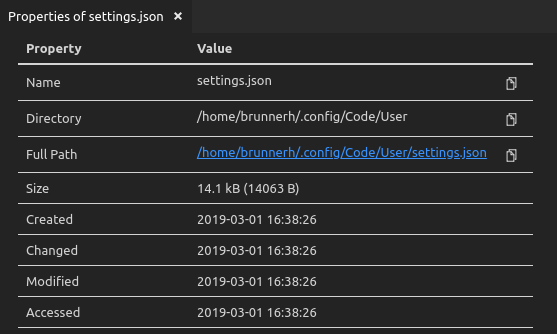
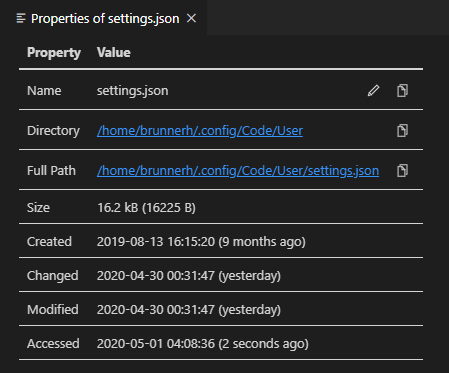
v.0.4.0
- Added:
  - Display relative time after timestamps.
  - Option for turning off the relative time display (`disableRelativeTimestamps`).
  - Directory path link which should open the folder in the default file manager.
  - Edit button which tries to open the file in VS Code (previously the functionality of the full path link).
  - Tooltips for buttons.
- Changed:
  - Full path link now opens the file with the default application.
- Fixed:
  - Being unable to use command on user settings file.

diff --git a/src/properties-view-provider.ts b/src/properties-view-provider.ts
@@ -8,7 +8,7 @@ import { Config } from "./config-interface";
 import { execFile } from "child_process";
 import { parseString as parseXML } from "xml2js";
 import { MediaInfoContainer } from "./media-info";
-import { html, HtmlString, raw } from "./html";
+import { html, raw, HtmlValue, HtmlString } from "./html";
 import { icons } from "./icons";
 
 export async function provideViewHtml(uri: vscode.Uri)
@@ -17,16 +17,43 @@ export async function provideViewHtml(uri: vscode.Uri)
 	const name = basename(path);
 	const directory = dirname(path);
 	// pretty-bytes throws for bigint.
-	// Passing options argument breaks in remote env (https://github.com/microsoft/vscode/issues/89887)
 	const stats: fs.Stats = await promisify(fs.stat)(path);
 
 	const formatDate = (date: Date) =>
 	{
 		// Extract and only update on config changed event if performance is impacted.
 		const format = Config.section.get('dateTimeFormat');
+		const disableRelative = Config.section.get('disableRelativeTimestamps');
 
-		return format == null ? date.toLocaleString() : dateformat(date, format);
-	}
+		const absolute = format == null ? date.toLocaleString() : dateformat(date, format);
+		if (disableRelative)
+			return absolute;
+
+		const relative = formatDateRelative(date);
+
+		return `${absolute} (${relative})`;
+	};
+
+	const formatDateRelative = (date: Date) =>
+	{
+		// TODO: remove when RelativeTimeFormat makes it into TS libs
+		// @ts-ignore
+		const formatter = new Intl.RelativeTimeFormat(undefined, { numeric: 'auto' });
+
+		const delta = -(new Date().getTime() - date.getTime());
+		const units = [
+			['year', 31536000000],
+			['month', 2628000000],
+			['day', 86400000],
+			['hour', 3600000],
+			['minute', 60000],
+			['second', 1000],
+		] as const;
+
+		for (const [unit, amount] of units)
+			if (Math.abs(delta) > amount || unit === 'second')
+				return formatter.format(Math.round(delta / amount), unit);
+	};
 
 	// Byte size redundant for sizes < 1000;
 	const exactSize = stats.size >= 1000 ? ` (${stats.size} B)` : '';
@@ -43,23 +70,39 @@ export async function provideViewHtml(uri: vscode.Uri)
 	});
 
 	const copyIcon = await icons.copy;
+	const editIcon = await icons.edit;
 
 	const copyButton = (text: string) => html`
-		<button class="copy-button" onclick="copyTextToClipboard(${JSON.stringify(text)})">
+		<button type="button" class="icon-button" title="Copy to clipboard"
+			onclick="copyTextToClipboard(${JSON.stringify(text)})">
 			${raw(copyIcon)}
 		</button>
 	`;
 
-	const fileLink = (path: string) => html`
-		<a href="file://${path}" onclick="openFile(${JSON.stringify(path)})">
+	const editButton = (path: string) => html`
+		<button type="button" class="icon-button" title="Edit file"
+			onclick="openFile(${JSON.stringify(path)})">
+			${raw(editIcon)}
+		</button>
+	`;
+
+	const externalLink = (path: string) => html`
+		<a href="file://${path}" onclick="openExternal(${JSON.stringify(path)})">
 			${makePathBreakable(path)}
 		</a>
 	`;
 
+	const cellWithButtons = (content: HtmlValue, ...buttons: HtmlValue[]) => html`
+		<div style="display: flex; align-items: center;">
+			<div style="flex: 1 1 auto;">${content}</div>
+			<div style="flex: 0 0 auto; margin-left: 10px;">${buttons}</div>
+		</div>
+	`;
+
 	const rows: TableRow[] = [
-		new PropertyRow('Name', [name, copyButton(name)]),
-		new PropertyRow('Directory', [makePathBreakable(directory), copyButton(directory)]),
-		new PropertyRow('Full Path', [fileLink(path), copyButton(path)]),
+		new PropertyRow('Name', cellWithButtons(name, editButton(path), copyButton(name))),
+		new PropertyRow('Directory', cellWithButtons(externalLink(directory), copyButton(directory))),
+		new PropertyRow('Full Path', cellWithButtons(externalLink(path), copyButton(path))),
 		new PropertyRow('Size', prettyBytes(stats.size) + exactSize),
 		new PropertyRow('Created', formatDate(stats.birthtime)),
 		new PropertyRow('Changed', formatDate(stats.ctime)),
@@ -166,12 +209,17 @@ export async function provideViewHtml(uri: vscode.Uri)
 					vscode.postMessage({ command: 'open', path });
 				}
 
+				function openExternal(path)
+				{
+					vscode.postMessage({ command: 'open-external', path });
+				}
+
 				function post(data)
 				{
 					vscode.postMessage(data);
 				}
 
-				Object.assign(window, { copyTextToClipboard, openFile, post });
+				Object.assign(window, { copyTextToClipboard, openFile, openExternal, post });
 			})();
 			</script>
 		</head>
@@ -256,7 +304,7 @@ class SubGroupRow extends TableRow
 export async function viewPropertiesCommand(uri?: vscode.Uri)
 {
 	if (uri == null && vscode.window.activeTextEditor == null ||
-		uri != null && uri.scheme != 'file')
+		uri != null && uri.scheme != 'file' && uri.scheme != 'vscode-userdata')
 	{
 		vscode.window.showWarningMessage("Cannot stat this item.");
 		return;
@@ -287,7 +335,11 @@ export async function viewPropertiesCommand(uri?: vscode.Uri)
 				case 'open':
 					const uri = vscode.Uri.file(message.path);
 					const document = await vscode.workspace.openTextDocument(uri);
-					vscode.window.showTextDocument(document);
+					await vscode.window.showTextDocument(document);
+					break;
+				case 'open-external':
+					const dirUri = vscode.Uri.file(message.path);
+					await vscode.env.openExternal(dirUri);
 					break;
 				case 'log':
 					console.log(message.data);
@@ -325,10 +377,15 @@ interface OpenMessage
 	command: 'open';
 	path: string;
 }
+interface OpenExternalMessage
+{
+	command: 'open-external';
+	path: string;
+}
 interface LogMessage
 {
 	command: 'log';
 	data: any;
 }
 
-type ViewMessage = OpenMessage | LogMessage;
+type ViewMessage = OpenMessage | OpenExternalMessage | LogMessage;

diff --git a/src/config-interface.ts b/src/config-interface.ts
@@ -1,17 +1,18 @@
-import * as vscode from "vscode";
+import * as vscode from 'vscode';
 
 export class Config
 {
 	static get section(): vscode.WorkspaceConfiguration & TypedConfig
 	{
-		return vscode.workspace.getConfiguration("filePropertiesViewer");
+		return vscode.workspace.getConfiguration('filePropertiesViewer');
 	}
 }
 
 interface TypedConfig
 {
-	get(item: "dateTimeFormat"): string | null;
-	get(item: "queryMIME"): boolean;
-	get(item: "queryMediaInfo"): boolean;
-	get(item: "outputStylePath"): string | null;
+	get(item: 'dateTimeFormat'): string | null;
+	get(item: 'queryMIME'): boolean;
+	get(item: 'queryMediaInfo'): boolean;
+	get(item: 'outputStylePath'): string | null;
+	get(item: 'disableRelativeTimestamps'): boolean;
 }

diff --git a/styles/default.css b/styles/default.css
@@ -50,22 +50,21 @@ td.indent-3
 	padding-left: 60px;
 }
 
-.copy-button
+.icon-button
 {
+    padding: 3px 5px;
 	color: inherit;
 	border: 1px solid transparent;
 	background: none;
-	margin-left: 10px;
-	float: right;
 	cursor: pointer;
-	transition: border ease-in-out 0.3s;
+	transition: border ease-in-out 0.1s;
 }
-.copy-button:hover,
-.copy-button:focus
+.icon-button:hover,
+.icon-button:focus
 {
 	border-color: currentColor;
 }
-.copy-button > svg
+.icon-button > svg
 {
 	display: inline-block;
 	vertical-align: middle;

diff --git a/src/icons.ts b/src/icons.ts
@@ -23,7 +23,10 @@ const svg = async (relativePath: string) =>
 class Icons
 {
 	@lazy
-	get copy() { return svg("../images/copy.svg") }
+	get copy() { return svg('../images/copy.svg') }
+
+	@lazy
+	get edit() { return svg('../images/edit.svg') }
 }
 
 export const icons = new Icons();

diff --git a/CHANGELOG.md b/CHANGELOG.md
@@ -1,5 +1,18 @@
 # Change Log
 
+## [0.4.0] - 2020-05-01
+
+- Added:
+  - Display relative time after timestamps.
+  - Option for turning off the relative time display (`disableRelativeTimestamps`).
+  - Directory path link which should open the folder in the default file manager.
+  - Edit button which tries to open the file in VS Code (previously the functionality of the full path link).
+  - Tooltips for buttons.
+- Changed:
+  - Full path link now opens the file with the default application.
+- Fixed:
+  - Being unable to use command on user settings file.
+
 ## [0.3.4] - 2020-02-03
 
 - Fixed: fs.stat with options argument not working in remote environment due to an outdated polyfill used by vscode-server.
